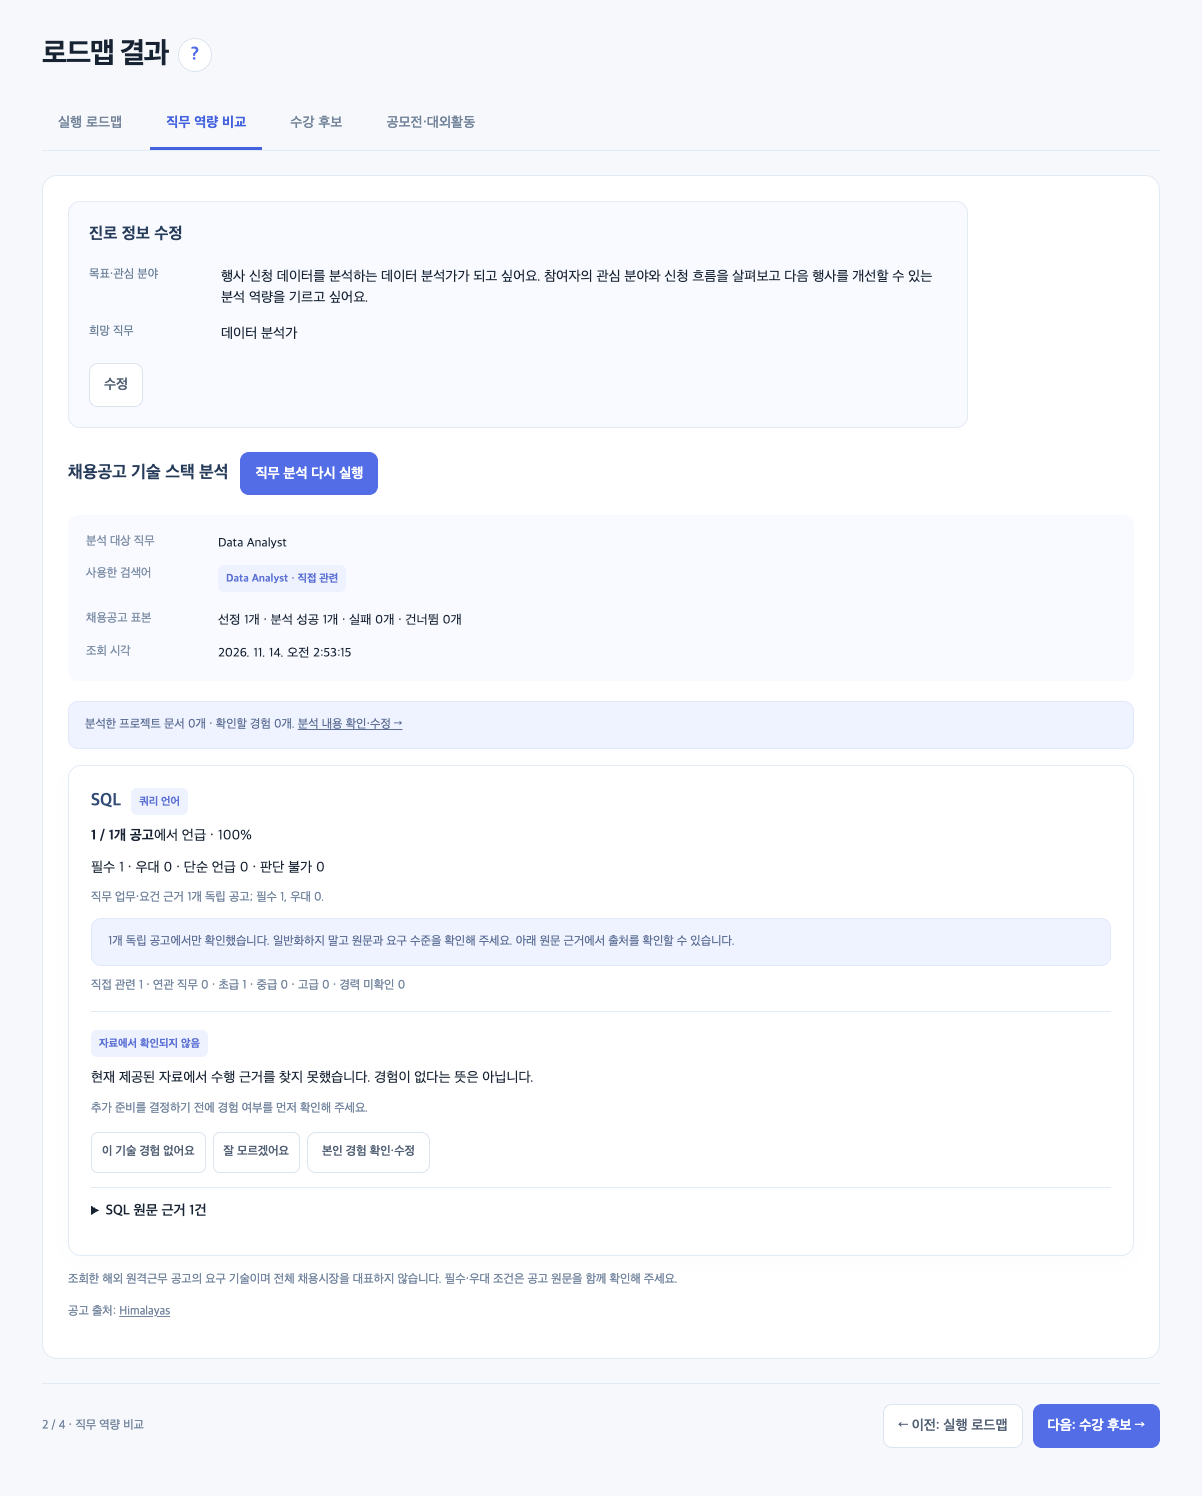
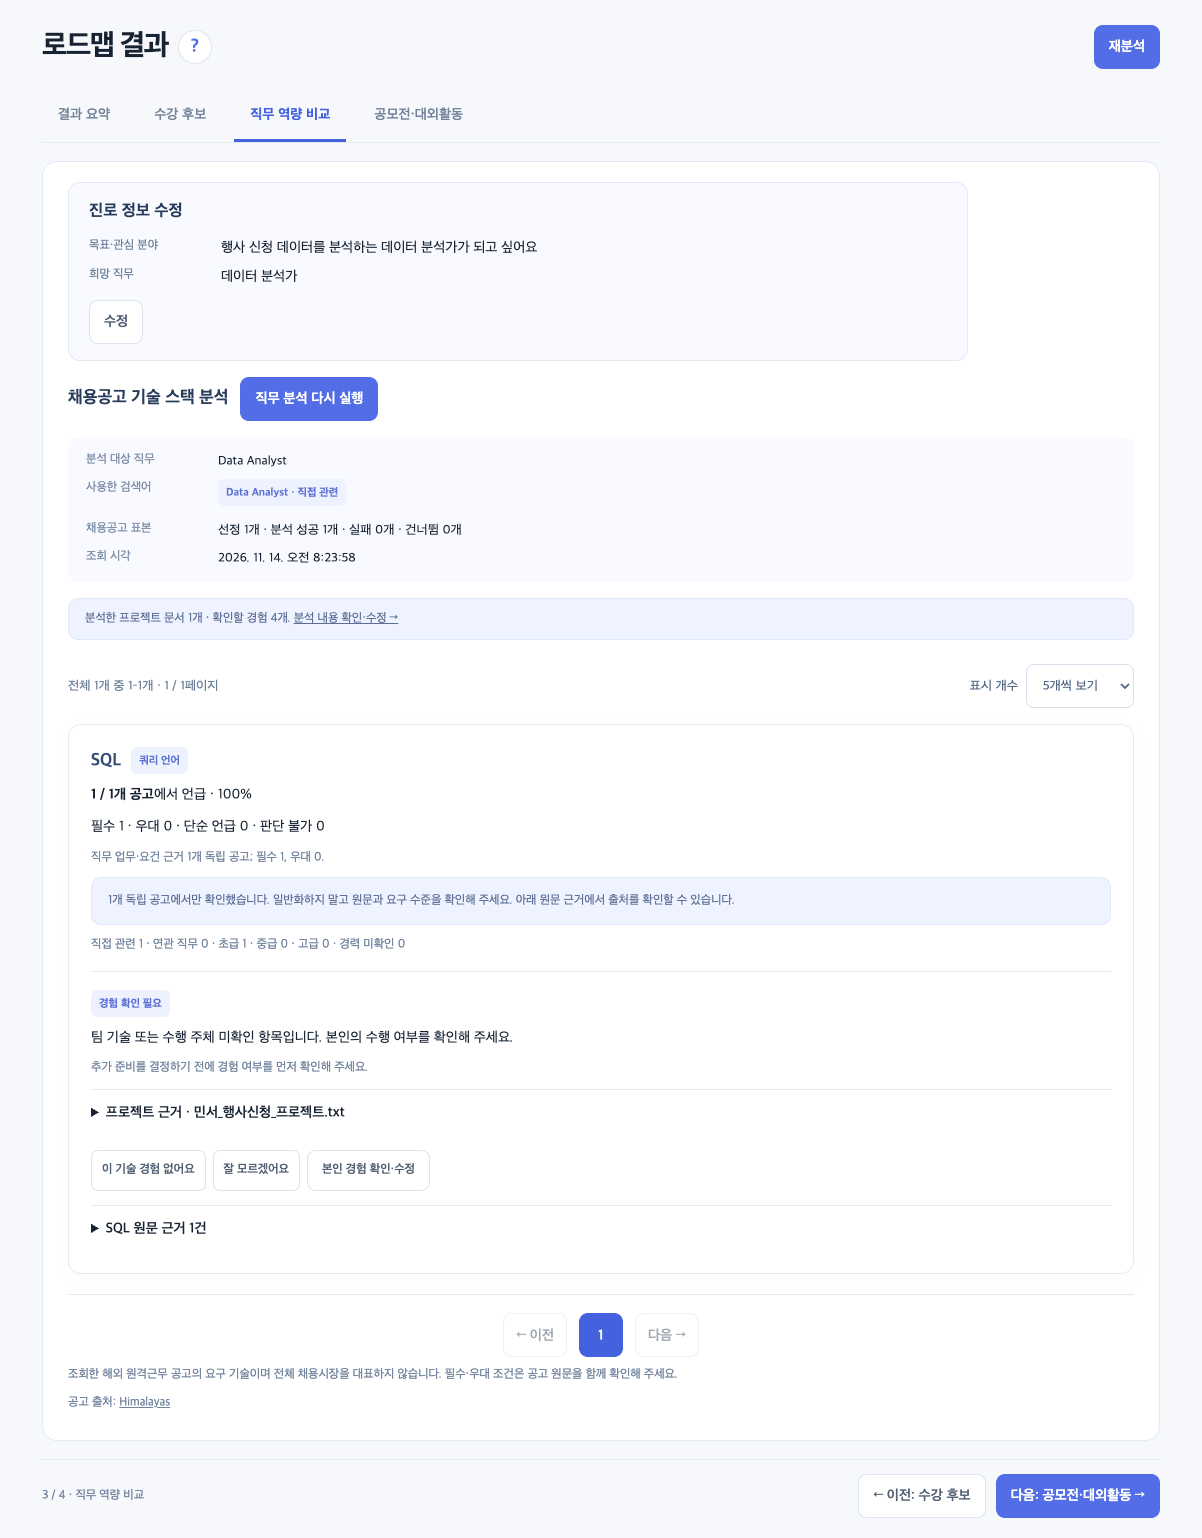
물음표 도움말 예시 최신화 및 모의 테스트 갱신

diff --git a/apps/api/tests/integration/help_ui_server.py b/apps/api/tests/integration/help_ui_server.py
@@ -7,9 +7,10 @@ from contextlib import closing
 import explore_ui_server as explore
 from repositories.plans import connect
 from scripts.seed_dev import U, D, C1, C2
-from services.roadmap_schemas import GeneratedRoadmap
+from services import activity_reasons
 
 server = explore.server
+explore.state['partial'] = False
 with closing(connect()) as db:
     db.execute('UPDATE universities SET university_name=? WHERE university_id=?', ('한빛대학교 (예시)', U))
     db.execute('UPDATE departments SET department_name=? WHERE department_id=?', ('컴퓨터공학과', D))
@@ -18,43 +19,21 @@ with closing(connect()) as db:
     db.execute('UPDATE course_catalogs SET is_selectable=0 WHERE catalog_id=?', (C2,))
     db.execute('UPDATE catalog_courses SET description_text=?,description_page_start=12,description_page_end=12 WHERE catalog_id=? AND course_id=?',
                ('관계형 데이터베이스의 구조와 SQL을 활용한 데이터 조회 및 집계를 학습한다.', C1, server.roadmap_scenario.DB_COURSE))
+    db.execute('UPDATE catalog_courses SET recommendation_reason=? WHERE catalog_id=? AND course_id=?',
+               ('SQL로 데이터를 조회하고 집계하는 방법을 익혀 데이터 분석에 필요한 기초를 다질 수 있습니다.', C1, server.roadmap_scenario.DB_COURSE))
+    for name, description, reason in [
+        ('소프트웨어 설계', '요구사항을 정리하고 소프트웨어의 구조와 구성 요소를 설계한다.',
+         '분석 결과를 제공하는 서비스를 구상할 때 필요한 요구사항 정리와 소프트웨어 구조 설계를 연습할 수 있습니다.'),
+        ('운영체제', '프로세스와 메모리 관리, 파일 시스템의 동작 원리를 학습한다.',
+         '데이터 처리 프로그램이 실행되는 환경을 이해하는 데 필요한 프로세스·메모리·파일 관리의 기초를 학습합니다.'),
+        ('프로젝트 실습', '문제를 정의하고 팀 프로젝트의 구현 결과를 검증하여 문서로 정리한다.',
+         '관심 있는 데이터 문제를 프로젝트로 구체화하고, 구현 결과와 본인이 맡은 역할을 정리하는 연습을 할 수 있습니다.'),
+    ]:
+        db.execute('UPDATE catalog_courses SET description_text=?,recommendation_reason=? WHERE catalog_id=? AND course_name=?',
+                   (description, reason, C1, name))
     db.execute('INSERT INTO catalog_course_keywords(catalog_id,course_id,keyword,keyword_role,evidence_text,evidence_page_start,evidence_page_end) VALUES(?,?,?,?,?,?,?)',
                (C1, server.roadmap_scenario.DB_COURSE, 'SQL', 'learning', 'SQL을 활용한 데이터 조회 및 집계를 학습한다.', 12, 12))
     db.commit()
-
-
-def roadmap(data):
-    server.counters['roadmap_fixture'] += 1
-    raw = server.roadmap_scenario.fake_roadmap(data).model_dump()
-    skill = next(item for item in data['skills'] if item['skill_name'] == 'SQL')
-    for course in raw['recommended_courses']:
-        course['reason'] = 'SQL로 데이터를 조회하고 집계하는 학습 내용이 데이터 분석 목표와 연결됩니다.'
-        course['personalization_reason'] = '행사 신청 데이터를 분석하려는 목표와 연결해 SQL 조회·집계 내용을 살펴볼 수 있어요.'
-    tasks = [
-        ('SQL로 맡은 조회 작업 확인하기', '행사 신청 프로젝트에서 SQL을 직접 사용한 경험을 확인하고 담당한 쿼리를 찾아 정리하세요.', '담당한 쿼리와 역할을 적거나, 찾지 못한 경우 확인이 필요하다고 기록하면 완료입니다.', '담당 쿼리와 역할을 적은 경험 확인 메모'),
-        ('집계 결과를 설명한 경험 확인하기', 'SQL 집계 결과를 직접 설명한 경험을 확인하고 결과 화면이나 메모를 찾아 정리하세요.', '본인이 설명한 부분과 자료 위치 또는 확인할 질문을 기록하면 완료입니다.', '결과 화면과 본인 설명을 묶은 기록'),
-        ('SQL 경험 확인 답변 정리하기', '앞서 찾은 자료로 SQL 경험을 확인하고 본인의 수행 내용과 더 확인할 질문을 정리하세요.', '직접 수행한 일과 팀원이 맡은 일을 구분한 기록이 있으면 완료입니다.', '본인 역할과 팀 역할을 구분한 프로젝트 메모'),
-    ]
-    for step, (title, action, criteria, artifact) in zip(raw['roadmap'], tasks):
-        step.update(title=title, purpose='데이터 분석 목표와 연결되는 본인의 SQL 경험 정리',
-                    reason='행사 신청 데이터를 분석하고 싶다는 목표가 있고, 문서에 있는 SQL 경험은 본인 확인이 필요해요.',
-                    limitations='현재 확인한 프로젝트 자료를 기준으로 합니다.')
-        task = step['tasks'][0]
-        if skill['student_status'] not in ('confirmed_experience', 'no_experience'):
-            task.update(title=title, action=action, completion_criteria=criteria, deliverable=artifact)
-    return GeneratedRoadmap(**raw)
-
-
-server.roadmaps.generate_roadmap = roadmap
-
-
-def course_reasons(data):
-    return {'reasons': [{'course_id': course['course_id'],
-        'personalization_reason': '행사 신청 데이터를 분석하려는 목표와 연결해 SQL 조회·집계 내용을 살펴볼 수 있어요.',
-        'evidence_ids': [course['evidence'][0]['id']] if course['evidence'] else []} for course in data['courses']]}
-
-
-server.roadmaps.generate_course_reasons = course_reasons
 
 
 def activities(db, *, include_event_context=False):
@@ -67,6 +46,27 @@ def activities(db, *, include_event_context=False):
 
 
 server.activities.load_contestkorea_catalog = activities
+
+
+def activity_reason_response(schema, instruction, data, **kwargs):
+    """Mock only AI output; real evidence validation and saved reasons still run."""
+    server.counters['activity_reason_fixture'] = server.counters.get('activity_reason_fixture', 0) + 1
+    reasons = []
+    for activity in data['activities']:
+        evidence = next(item for item in activity['evidence'] if item['kind'] == 'detail')
+        references = [{'evidence_id': evidence['id'], 'quote': evidence['text']}]
+        reasons.append({'activity_id': activity['activity_id'], 'sentences': [
+            {'perspective': 'career', 'basis': 'inference',
+             'text': '공공데이터로 지역 생활의 문제를 살펴보는 활동을 통해 데이터 분석가라는 진로에 필요한 문제 정의와 분석 방향 설정을 연습해 볼 수 있습니다.',
+             'evidence': references, 'experience_ids': []},
+            {'perspective': 'expected', 'basis': 'inference',
+             'text': '관심 있는 문제와 관련된 데이터를 찾아보고 분석 결과를 해결 아이디어로 정리하는 경험으로 확장할 수 있습니다.',
+             'evidence': references, 'experience_ids': []},
+        ]})
+    return schema(reasons=reasons)
+
+
+activity_reasons._generate = activity_reason_response
 
 if __name__ == '__main__':
     import uvicorn

diff --git a/apps/web/tests/e2e/help-examples.md b/apps/web/tests/e2e/help-examples.md
@@ -1,153 +1,97 @@
-# Page help screenshots and browser regression
+# Page help examples and browser regression
 
-`apps/web/public/help/*.png` contains eight distinct captures of `#main-content` in the actual `apps/web` application, made in Chromium at a 1440×900 viewport. These are not rendered mockups or generated illustrations. Each image was visually inspected. The same fictional student, 민서, is used throughout: 한빛대학교 (예시) 컴퓨터공학과, a data-analysis goal, two completed courses, and an event-registration project. The help dialog explicitly labels the school, document, analysis and recommendation as fictional examples.
+The eight `apps/web/public/help/*.png` images are captures of the actual Next.js
+application with fictional student data. They are refreshed by `help-flow.mjs`,
+not drawn mockups. Desktop captures use a 1440×900 viewport: seven capture
+`#main-content` (including its full height), and `courses.png` captures the
+viewport with the course confirmation dialog open. Help dialogs load the same
+images on desktop and mobile.
 
-The disposable `apps/api/tests/integration/help_ui_server.py` runs the real plan/document/course/experience/roadmap APIs and SQLite repository. Its external-network block prevents calls to production services. Authentication, AI generation, job postings and the activity catalog use deterministic fixtures; the uploaded TXT parser and persistence are real. No production credentials or student data are used. The original provider boundaries stay unchanged in production code.
+The examples follow one student, 민서: 한빛대학교 (예시) 컴퓨터공학과, an
+event-registration data-analysis goal, two completed courses, and a project
+using React, SQL and Python. A teammate owns the Docker work. The dialog labels
+all school, document and recommendation content as fictional.
 
-To reproduce, install the normal web and API development dependencies, start the fixture server, and start Next with:
+## Reproduce
+
+Install the normal API and web development dependencies. From the repository
+root, start the disposable API:
+
+```sh
+apps/api/.venv/bin/python apps/api/tests/integration/help_ui_server.py
+```
+
+Start Next in `apps/web` with test configuration (browser origin is
+`http://localhost:15102`):
 
 ```sh
 NEXT_TELEMETRY_DISABLED=1 ROADMAP_API_ORIGIN=http://127.0.0.1:18083 NEXT_PUBLIC_SUPABASE_URL=https://job-skills-test.supabase.co NEXT_PUBLIC_SUPABASE_PUBLISHABLE_KEY=test-key npm run dev -- --hostname 127.0.0.1 --port 15102
 ```
 
-From the repository root, use an installed Playwright module and Chromium executable:
+Use an installed Playwright module and Chromium executable. Run from the
+repository root, first capturing and then checking the new images through the
+actual question-mark buttons:
 
 ```sh
 CAPTURE_HELP=1 PLAYWRIGHT_MODULE=/path/to/playwright/index.mjs P5_BROWSER=/path/to/chromium node apps/web/tests/e2e/help-flow.mjs
 PLAYWRIGHT_MODULE=/path/to/playwright/index.mjs P5_BROWSER=/path/to/chromium node apps/web/tests/e2e/help-flow.mjs
-node --experimental-vm-modules --test apps/web/tests/unit/*.test.mjs
+node --test apps/web/tests/unit/help-assets.test.mjs
 ```
 
-For a production build, set `ROADMAP_API_ORIGIN` to the intended HTTPS API origin; production configuration deliberately rejects an unset or HTTP origin. The isolated build check used `https://api.example.test` and test Supabase configuration without calling those hosts.
+Set `HELP_CAPTURE_IDS` to comma-separated help IDs to refresh a subset. Omit it
+to refresh all eight. The scenario still runs in full. Diagnostic screenshots
+are written to `/tmp/team18-help-artifacts/`.
 
-The capture pass writes the images. The second pass loads all eight images from the application and exercises native dialog dismissal, focus containment/return, images fitted to the dialog without zoom controls, preserved drafts/selections/tabs, image-error recovery, input save retries, full desktop/mobile workflows, goal-only activities, document skip and zero selected courses. It also injects changed metadata into saved/partial responses to check that removed rendering areas stay absent. Both passes use 1440×900 and 390×844.
+## Current examples (2026-11-14)
 
-`p5-flow.mjs` is a compatibility entry for the maintained `intake-flow.mjs`; the earlier unauthenticated P5 contract is retired.
+| Help ID | Captured state |
+| --- | --- |
+| `basic` | Saved goal and target role, with the selected school/department collapsed |
+| `documents` | Uploaded project document after extraction is complete |
+| `courses` | Four year tables in the confirmation dialog, with two selected courses |
+| `review` | Saved React correction, SQL uncertainty, Python no-experience answer, and current selected-answer styling |
+| `result-roadmap` | 결과 요약, four current tabs, 재분석, saved courses/skills/activities |
+| `result-courses` | Current catalog recommendation text and expanded database learning content |
+| `result-skills` | Data Analyst job analysis, SQL demand and the student's project comparison |
+| `result-activities` | Saved personalized participation reason, eligibility, deadline and original link |
 
-Other maintained regressions: `intake-flow.mjs` with `intake_ui_server.py`, `explore-flow.mjs` with `explore_ui_server.py`, and `review-fixes.mjs` with `review_fixes_ui_server.py`. `roadmaps.mjs` and `tests/browser/activities.mjs` are browser-only API fixtures. An actual external-provider end-to-end check is separate from these tests.
+The review footer now starts generation with **로드맵 만들기**. The scenario
+checks this first saved result, explicitly runs **직무 분석 실행**, then uses
+**재분석** to save the comparison with the course and activity recommendations.
+Tab order is **결과 요약 → 수강 후보 → 직무 역량 비교 → 공모전·대외활동**.
+The result examples include no retired execution-task controls.
+
+Course explanations come from the fixture's current catalog text. Activity
+reason AI output is a deterministic fixture, but evidence validation and saving
+run through the real service. Missing job analysis on initial generation is a
+valid state; the final captured result contains the explicitly requested job
+analysis and saved activity reason.
 
 ## Verification scope
 
-- Real local UI and API: anonymous plan creation/resume, department catalog reads (zero/one/multiple), delayed-response protection, TXT upload/extraction, course selection and confirmation, zero-course confirmation, experience answer persistence, career PATCH, saved roadmap reads and task progress. SQLite contains only disposable test data.
-- Browser-controlled failure cases: network save failure/retry, changed metadata, image 404/retry and provider-error rendering. Concurrent plan/course changes use the real API conflict checks.
-- Simulated external services: Supabase sessions/OAuth responses, Gemini outputs, Google Vision OCR results, Himalayas postings and ContestKorea activities. No live external-provider success claim is made. OCR orchestration and document parsing still run through the real API.
-- Regression suites: `help-flow`, `intake-flow` (also the `p5-flow` entry), `explore-flow`, `navigation-no-dashboard`, `review-fixes`, `guest-flow`, `stepup-ui`, `roadmaps`, and `tests/browser/activities.mjs`.
-- Unit checks include eight distinct PNG assets and safe student-facing error messages. API regression checks cover project experience, job-skill analysis and roadmap integrations.
+On 2026-11-14, the capture and image-validation passes both passed at the two
+viewport sizes below. The eight-image asset test and `git diff --check` also passed.
 
-The main help flow runs both 1440×900 and 390×844. The intake regression additionally checks 320px layout, real 409 conflicts, upload/OCR orchestration and extracted-text modal focus return. The help test inspects closed disclosures as well as visible text so removed internal metadata cannot reappear merely by expanding a section.
+Both capture and validation passes run at 1440×900 and 390×844. The validation
+pass opens all eight question-mark dialogs and checks image loading, image fit,
+Escape/close dismissal, focus containment and return, and unchanged drafts,
+course selections and selected result tabs. Opening help, switching result tabs
+and reloading must not save inputs or start another analysis.
 
-## Current desktop UI regression
+The scenario also checks basic-save and course-confirmation retries, document
+extraction and its text dialog, persisted experience corrections, career edits,
+changed internal metadata, image 404/retry, document skip, zero selected courses,
+goal-only activities, and the document API error state. Asset checks require
+eight distinct PNGs with readable source dimensions and alternative text.
 
-The course help example uses the small fictional catalog from `help_ui_server.py`
-and shows the four year tables in the selection confirmation dialog.
+The API uses a fresh temporary SQLite database and temporary document storage.
+Plan creation, input persistence, parsing, course selection, experience answers,
+recommendation filtering and saved result bundles use real local routes.
+Authentication, AI responses, job postings and activity catalogs are fixtures;
+external networking is blocked by the fixture server. These runs do not verify
+live providers or change production data.
 
-With the same fixture API and Next server running, check the current desktop flow:
-
-```sh
-PLAYWRIGHT_MODULE=/path/to/playwright/index.mjs P5_BROWSER=/path/to/chromium node apps/web/tests/e2e/ui-polish.mjs
-```
-
-This uses a 1280×720 desktop viewport, plus 390×844 for filtered bulk selection.
-It checks required-field feedback, whole-row
-toggling, year/semester selection limited to visible search results, reversals while saving,
-reload persistence, dialog focus restoration, ordered result navigation, and reuse
-of the saved result without fetching result history or starting another analysis.
-
-With the same servers, `navigation-no-dashboard.mjs` checks the sidebar, saved
-result link, legacy `/dashboard` redirect, result navigation and resume/retry:
-
-```sh
-PLAYWRIGHT_MODULE=/path/to/playwright/index.mjs P5_BROWSER=/path/to/chromium node apps/web/tests/e2e/navigation-no-dashboard.mjs
-```
-
-For a focused bulk-selection regression, run `course_groups_ui_server.py` with
-Next on port 15101 pointing to its API on port 18082, then run:
-
-```sh
-PLAYWRIGHT_MODULE=/path/to/playwright/index.mjs P5_BROWSER=/path/to/chromium node apps/web/tests/e2e/course-bulk-selection.mjs
-```
-
-This uses the grouped catalog and disposable SQLite to verify the `데` search
-across years and semesters, partial and complete selection, disabled empty
-groups, selected-only filtering, queued saves, hidden selections and reload on
-desktop and mobile. The fixture server accepts `COURSE_API_PORT` and
-`COURSE_WEB_ORIGIN` to run on different ports.
-
-## Document actions
-
-Run `document_upload_ui_server.py` and Next on port 15115 pointing to its API on
-port 18095, then run:
-
-```sh
-PLAYWRIGHT_MODULE=/path/to/playwright/index.mjs P5_BROWSER=/path/to/chromium node apps/web/tests/e2e/document-page-actions.mjs
-```
-
-This checks partial extraction confirmation and retry, the empty/uploaded/failed
-document states, and the footer button layout at desktop and mobile widths.
-
-## Basic information summary and save flow
-
-Run `apps/api/tests/integration/basic_ui_server.py` instead of the help fixture
-server to test the school/department disclosure. It adds a second fictional
-school, multiple catalogs and a department without a catalog to the same real
-local API/SQLite setup. Use the Next command above, then run:
-
-```sh
-CAPTURE_HELP=1 PLAYWRIGHT_MODULE=/path/to/playwright/index.mjs P5_BROWSER=/path/to/chromium node apps/web/tests/e2e/basic-form.mjs
-```
-
-This updates only `public/help/basic.png` from the actual collapsed desktop UI.
-Both 1440×900 and 390×844 exercise first visit, selection and collapse, reopening
-with selected values, school change without losing the career draft, catalog
-reset/automatic attachment, saved catalog restoration, delayed catalog responses,
-catalog retry, required-goal focus, save-in-flight navigation blocking, refresh
-restoration, school-free saving and both destinations, 503 retry and real 409
-conflict handling. The help dialog preserves the draft and returns focus.
-
-Captures and the verification report are written to the ignored
-`apps/web/test-results/basic-form/` directory: `desktop-collapsed.png`,
-`mobile-expanded.png` (390×844 viewport), `mobile-expanded-full.png` (the entire
-scrollable page at that viewport width), and `report.json`. The example uses a
-fictional student's running-record analysis goal; no production data is changed.
-
-The result starts with 실행 로드맵 and has four tabs; the retired 준비 상태 tab
-and its example are removed. To refresh only the result examples, set
-`HELP_CAPTURE_IDS=result-roadmap,result-skills,result-courses,result-activities`
-when running `CAPTURE_HELP=1` with `help-flow.mjs`.
-
-## Result overview and retained details
-
-`/result` and `/result?tab=roadmap` open the execution overview. The title and
-help button are followed immediately by the four URL-backed tabs. The basic card
-shows the saved target role and goal; school/department are intentionally omitted
-from the result overview. The lower cards show the first three saved course
-recommendations (in server order), the saved analyzed role, and up to three
-activities. The course tab retains the full filtered list and learning evidence.
-Current completed/reviewed-equivalent course IDs are excluded from both lists.
-Below the overview, the execution steps show completion criteria and let the
-student save task progress. Old `?tab=readiness` links open this same view.
-
-Visits, tab changes, focus and reload only read saved resources. Activity GETs
-read stored catalogs; these paths do not invoke a collector or AI provider.
-
-Run against `help_ui_server.py` and the local Next configuration above:
-
-```sh
-CAPTURE_HELP=1 PLAYWRIGHT_MODULE=/path/to/playwright/index.mjs node apps/web/tests/e2e/result-overview.mjs
-```
-
-This refreshes the four result help PNGs and checks 1440×900 and 390×844 in
-Chromium: heading/tab order, active underline, left/right/Home/End keys,
-reload/back restoration, the legacy dashboard redirect, activity original links,
-per-tab help and focus restoration, independent loading/empty/error states,
-goal-only activities, explicit generation/regeneration, saved completion and
-historical runs. It saves `프로그래밍 기초` as completed via the real API, and
-asserts that the distinct recommended `데이터베이스` and its API reason appear.
-External source navigation uses an intercepted destination to verify the exact
-returned URL without depending on a fictional example's remote availability.
-
-Captures and actual local API responses are in the ignored
-`apps/web/test-results/result-overview/` directory: `result-1440.png`,
-`result-390.png`, their `-full.png` versions, `api-responses.json`, and `report.json`.
-External authentication, AI output and provider catalogs remain test fixtures;
-plan/course persistence and recommendation filtering run through the real API.
+Other feature-specific scripts in this directory are separate regressions;
+their results are not implied by a successful help refresh. Avoid using older
+capture entry points to overwrite these assets without checking their scenario
+and labels against the current application.
